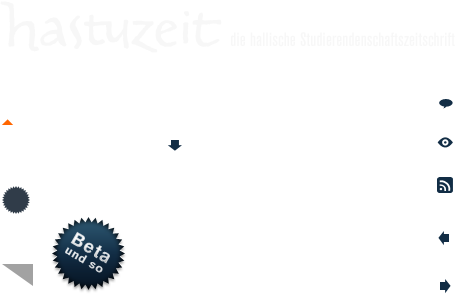
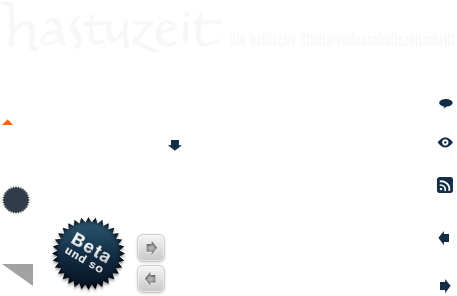
slider arrows now part of the master sprite
git-svn-id: https://krema.svn.beanstalkapp.com/hastuzeit@168 3445ca58-e459-48c6-80b6-aacbbe7ab71b

Changed region(s): [[0.2757, 0.7905, 0.3676, 1.0]]

diff --git a/wphastuzeit/trunk/style/js/effects.js b/wphastuzeit/trunk/style/js/effects.js
@@ -37,8 +37,8 @@ $(function () { //DOMdiDOM
 		var $scroll = $('#featured .scroll').css('overflow', 'hidden');
 		
 	    $scroll
-	        .before('<img class="scrollButtons left" src="/wp-content/themes/wphastuzeit/style/images/slider-arrow-l.png" />')
-	        .after('<img class="scrollButtons right" src="/wp-content/themes/wphastuzeit/style/images/slider-arrow-r.png" />');
+	        .before('<span class="scrollButtons left"></span>')
+	        .after('<span class="scrollButtons right"></span>');
 		
 		function selectNav() {
 		  $(this)
@@ -72,8 +72,8 @@ $(function () { //DOMdiDOM
 		  target: $scroll,
 		  items: $panels,
 		  navigation: '.featured_nav a',
-		  prev: 'img.left', 
-          next: 'img.right',
+		  prev: 'span.left', 
+          next: 'span.right',
 		  axis: 'xy',
 		  onAfter: trigger,
 		  offset: offset,

diff --git a/wphastuzeit/trunk/style/css/layout.css b/wphastuzeit/trunk/style/css/layout.css
@@ -286,10 +286,14 @@ div {
 
 .scrollButtons {
   position: absolute;
+  display: block;
   top: 180px;
   cursor: pointer;
   border: none;
   z-index: 99;
+  background: transparent url(../images/hastuzeit-master.png) no-repeat -135px -262px;
+  width: 34px;
+  height: 34px;
 }
 
 .scrollButtons.left {
@@ -298,6 +302,7 @@ div {
 
 .scrollButtons.right {
   right: -20px;
+  background-position: -134px -231px;
 }
 
 #zipfel {
